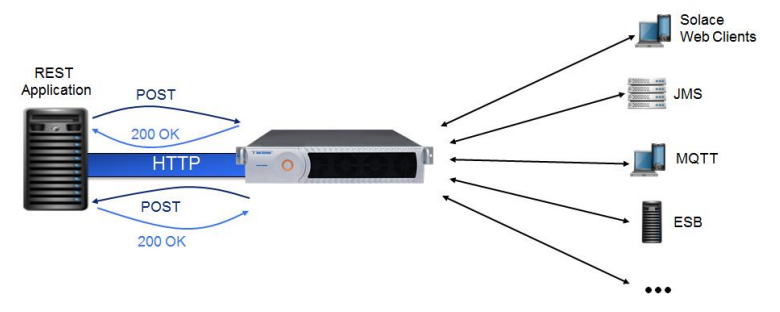
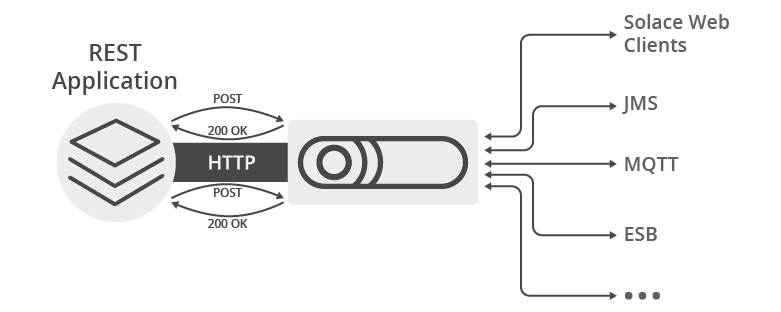
Updated with rebranded diagrams

diff --git a/src/components/footer.js b/src/components/footer.js
@@ -293,7 +293,7 @@ const Footer = () => (
     </Container>
     <Container>
       <Row className="footer-bottom">
-        <Col xs={12} sm={12} md={6} lg={6} xl={6} className="tl pt4 pb3">
+        <Col xs={12} sm={12} md={6} lg={6} xl={6} className="tl pt3 pb3">
           <a
             href="https://solace.com/legal/"
             target="_blank"

diff --git a/src/pages/samples/common-assets/solaceMessaging.md b/src/pages/samples/common-assets/solaceMessaging.md
@@ -48,7 +48,7 @@ There are several ways you can get access to PubSub+ Messaging and find these re
 
 * Follow [these instructions](https://docs.solace.com/Solace-VMR-Set-Up/Setting-Up-VMRs.htm) to start the PubSub+ Software in leading Clouds, Container Platforms or Hypervisors. The tutorials outline where to download and how to install the PubSub+ Software.
 * The messaging connectivity information are the following:
-    * Host: \<public_ip> (IP address assigned to the VMR in tutorial instructions)
+    * Host: <public_ip> (IP address assigned to the VMR in tutorial instructions)
     * Message VPN: default
     * Client Username: sampleUser (can be any value)
     * Client Password: samplePassword (can be any value)
